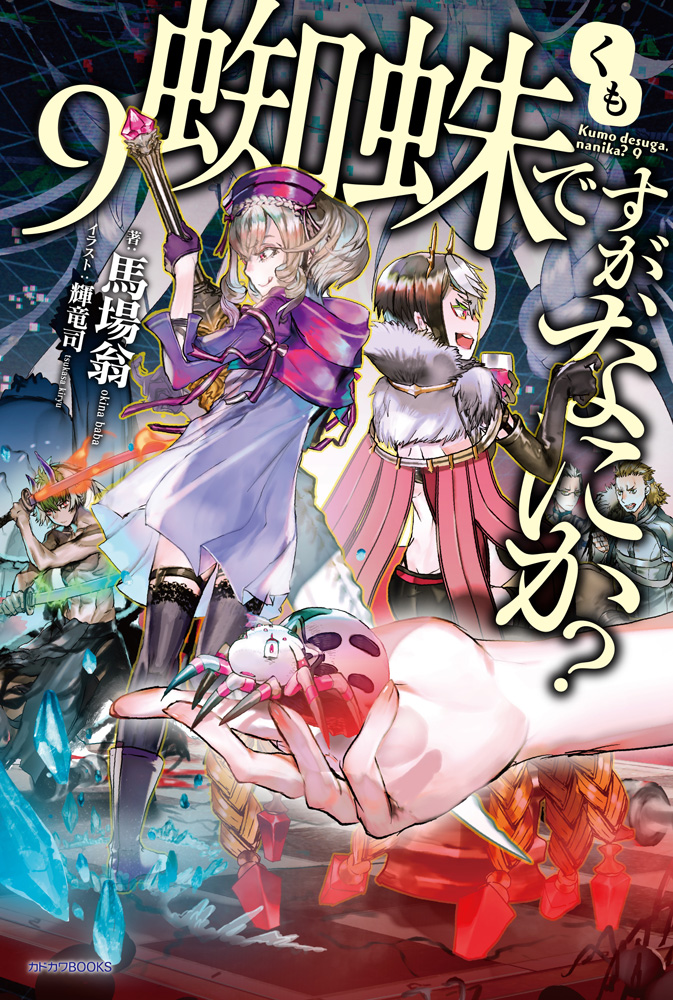
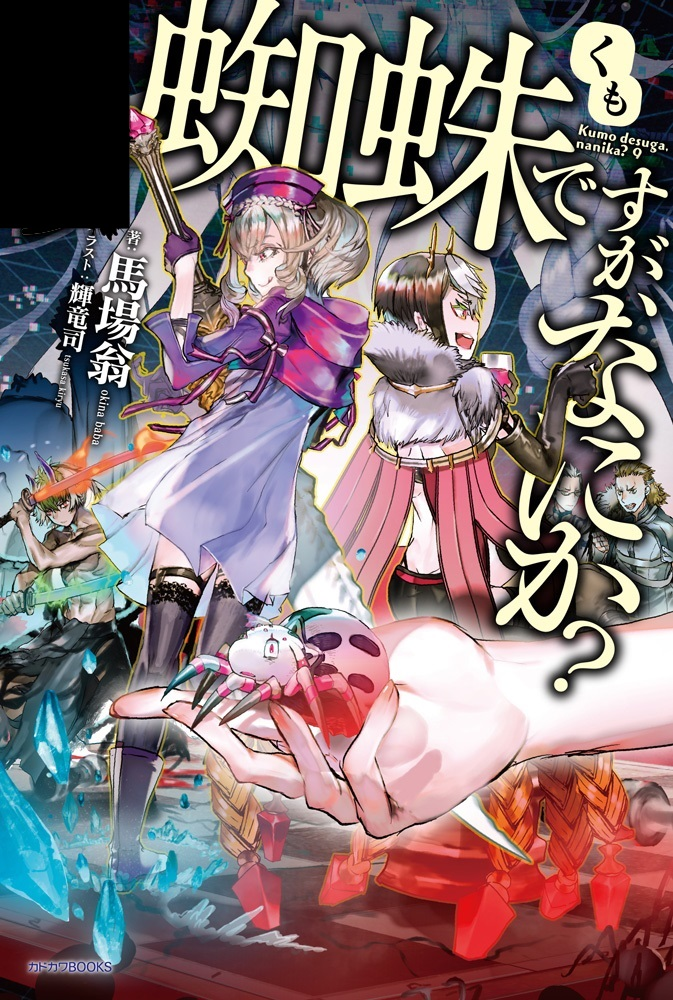
(original)split into series

diff --git a/ExtractKumoDesu.py b/ExtractKumoDesu.py
@@ -1,8 +1,11 @@
 import os
 import requests
+import html
 
 from bs4 import BeautifulSoup
 from ebooklib import epub
+from PIL import Image,ImageDraw,ImageFont
+from io import BytesIO
 
 
 def downloadFile(URL=None):
@@ -723,7 +726,7 @@ def tubosquid():
     for i in range(0,len(out_htmls)-1):
         base_name = os.path.splitext(os.path.basename(out_htmls[i]))[0]
         # create chapter
-        c1 = epub.EpubHtml(title=out_titles[i], file_name=base_name+".xhtml")
+        c1 = epub.EpubHtml(title=html.unescape(out_titles[i]), file_name=base_name+".xhtml")
         with open(out_htmls[i],'rb') as f:
             c1.content=f.read()
         spine.append(c1)
@@ -1214,6 +1217,27 @@ def raisedead():
     # write to the file
     epub.write_epub(os.path.join(out,"Kumo_RAD.epub"), book, {})
 
+def start_book(series):
+    book = epub.EpubBook()
+    book.set_identifier('id1234534' + str(series))
+    book.set_title('蜘蛛ですが、なにか？ ' + str(series))
+    book.set_language('jp')
+    img = Image.open(r'bookcover\kumorad.jpg')
+    draw = ImageDraw.Draw(img)
+    draw.text((0, 0), str(series), (255, 255, 255), font=ImageFont.truetype("arial.ttf", 200))
+    img_file = BytesIO()
+    img.save(img_file, 'jpeg')
+    book.set_cover("image.jpg", img_file.getvalue())
+    book.add_author('馬場翁')
+    return book
+
+def end_book(book,series, spine, toc, outdir):
+    book.add_item(epub.EpubNcx())
+    book.add_item(epub.EpubNav())
+    book.spine = spine
+    book.toc = (toc)
+    epub.write_epub(os.path.join(outdir, "Kumo_Desuka_%s.epub" % str(series)), book, {})
+
 def original():
     base_url = r'http://ncode.syosetu.com/'
     ind = 'n7975cr'
@@ -1229,17 +1253,20 @@ def original():
     chaps = get_chaps()
     out_htmls = []
     out_titles = []
-    book = epub.EpubBook()
 
-    # set metadata
-    book.set_identifier('id1234534')
-    book.set_title('蜘蛛ですが、なにか？')
-    book.set_language('jp')
-    book.set_cover("image.jpg", open(r'bookcover\kumorad.jpg', 'rb').read())
-    book.add_author('馬場翁')
+    series = 1
+    book = start_book(series)
     spine = ['nav']
     toc = []
+    cnt = 0
     for c in chaps:
+        if (cnt % 100)==99:
+            end_book(book,series, spine,toc,outdir)
+            series+=1
+            book = start_book(series)
+            spine = ['nav']
+            toc = []
+            cnt = 0
         print("Chapter "+c['title']+" "+c['href'])
         base_name = c['href'].split("/")[-2]
         curr_html = os.path.join(outdir,base_name+".html")
@@ -1255,16 +1282,13 @@ def original():
         c_tags = BeautifulSoup(txt,'html.parser')
         body = c_tags.find(id="novel_honbun")
         echap = epub.EpubHtml(title=c['title'],file_name=base_name+".xhtml")
-        echap.content = body.decode_contents()
+        echap.content = "<strong>%s</strong>\n" % c['title']+body.decode_contents()
         spine.append(echap)
         toc.append(echap)
         book.add_item(echap)
-    book.add_item(epub.EpubNcx())
-    book.add_item(epub.EpubNav())
-    book.spine = spine
-    book.toc = (toc)
-    epub.write_epub(os.path.join(outdir,"Kumo_Desuka.epub"), book, {})
+        cnt+=1
+    end_book(book,series, spine,toc,outdir)
 
 #tubosquid()
-raisedead()
-#original()
+#raisedead()
+original()
